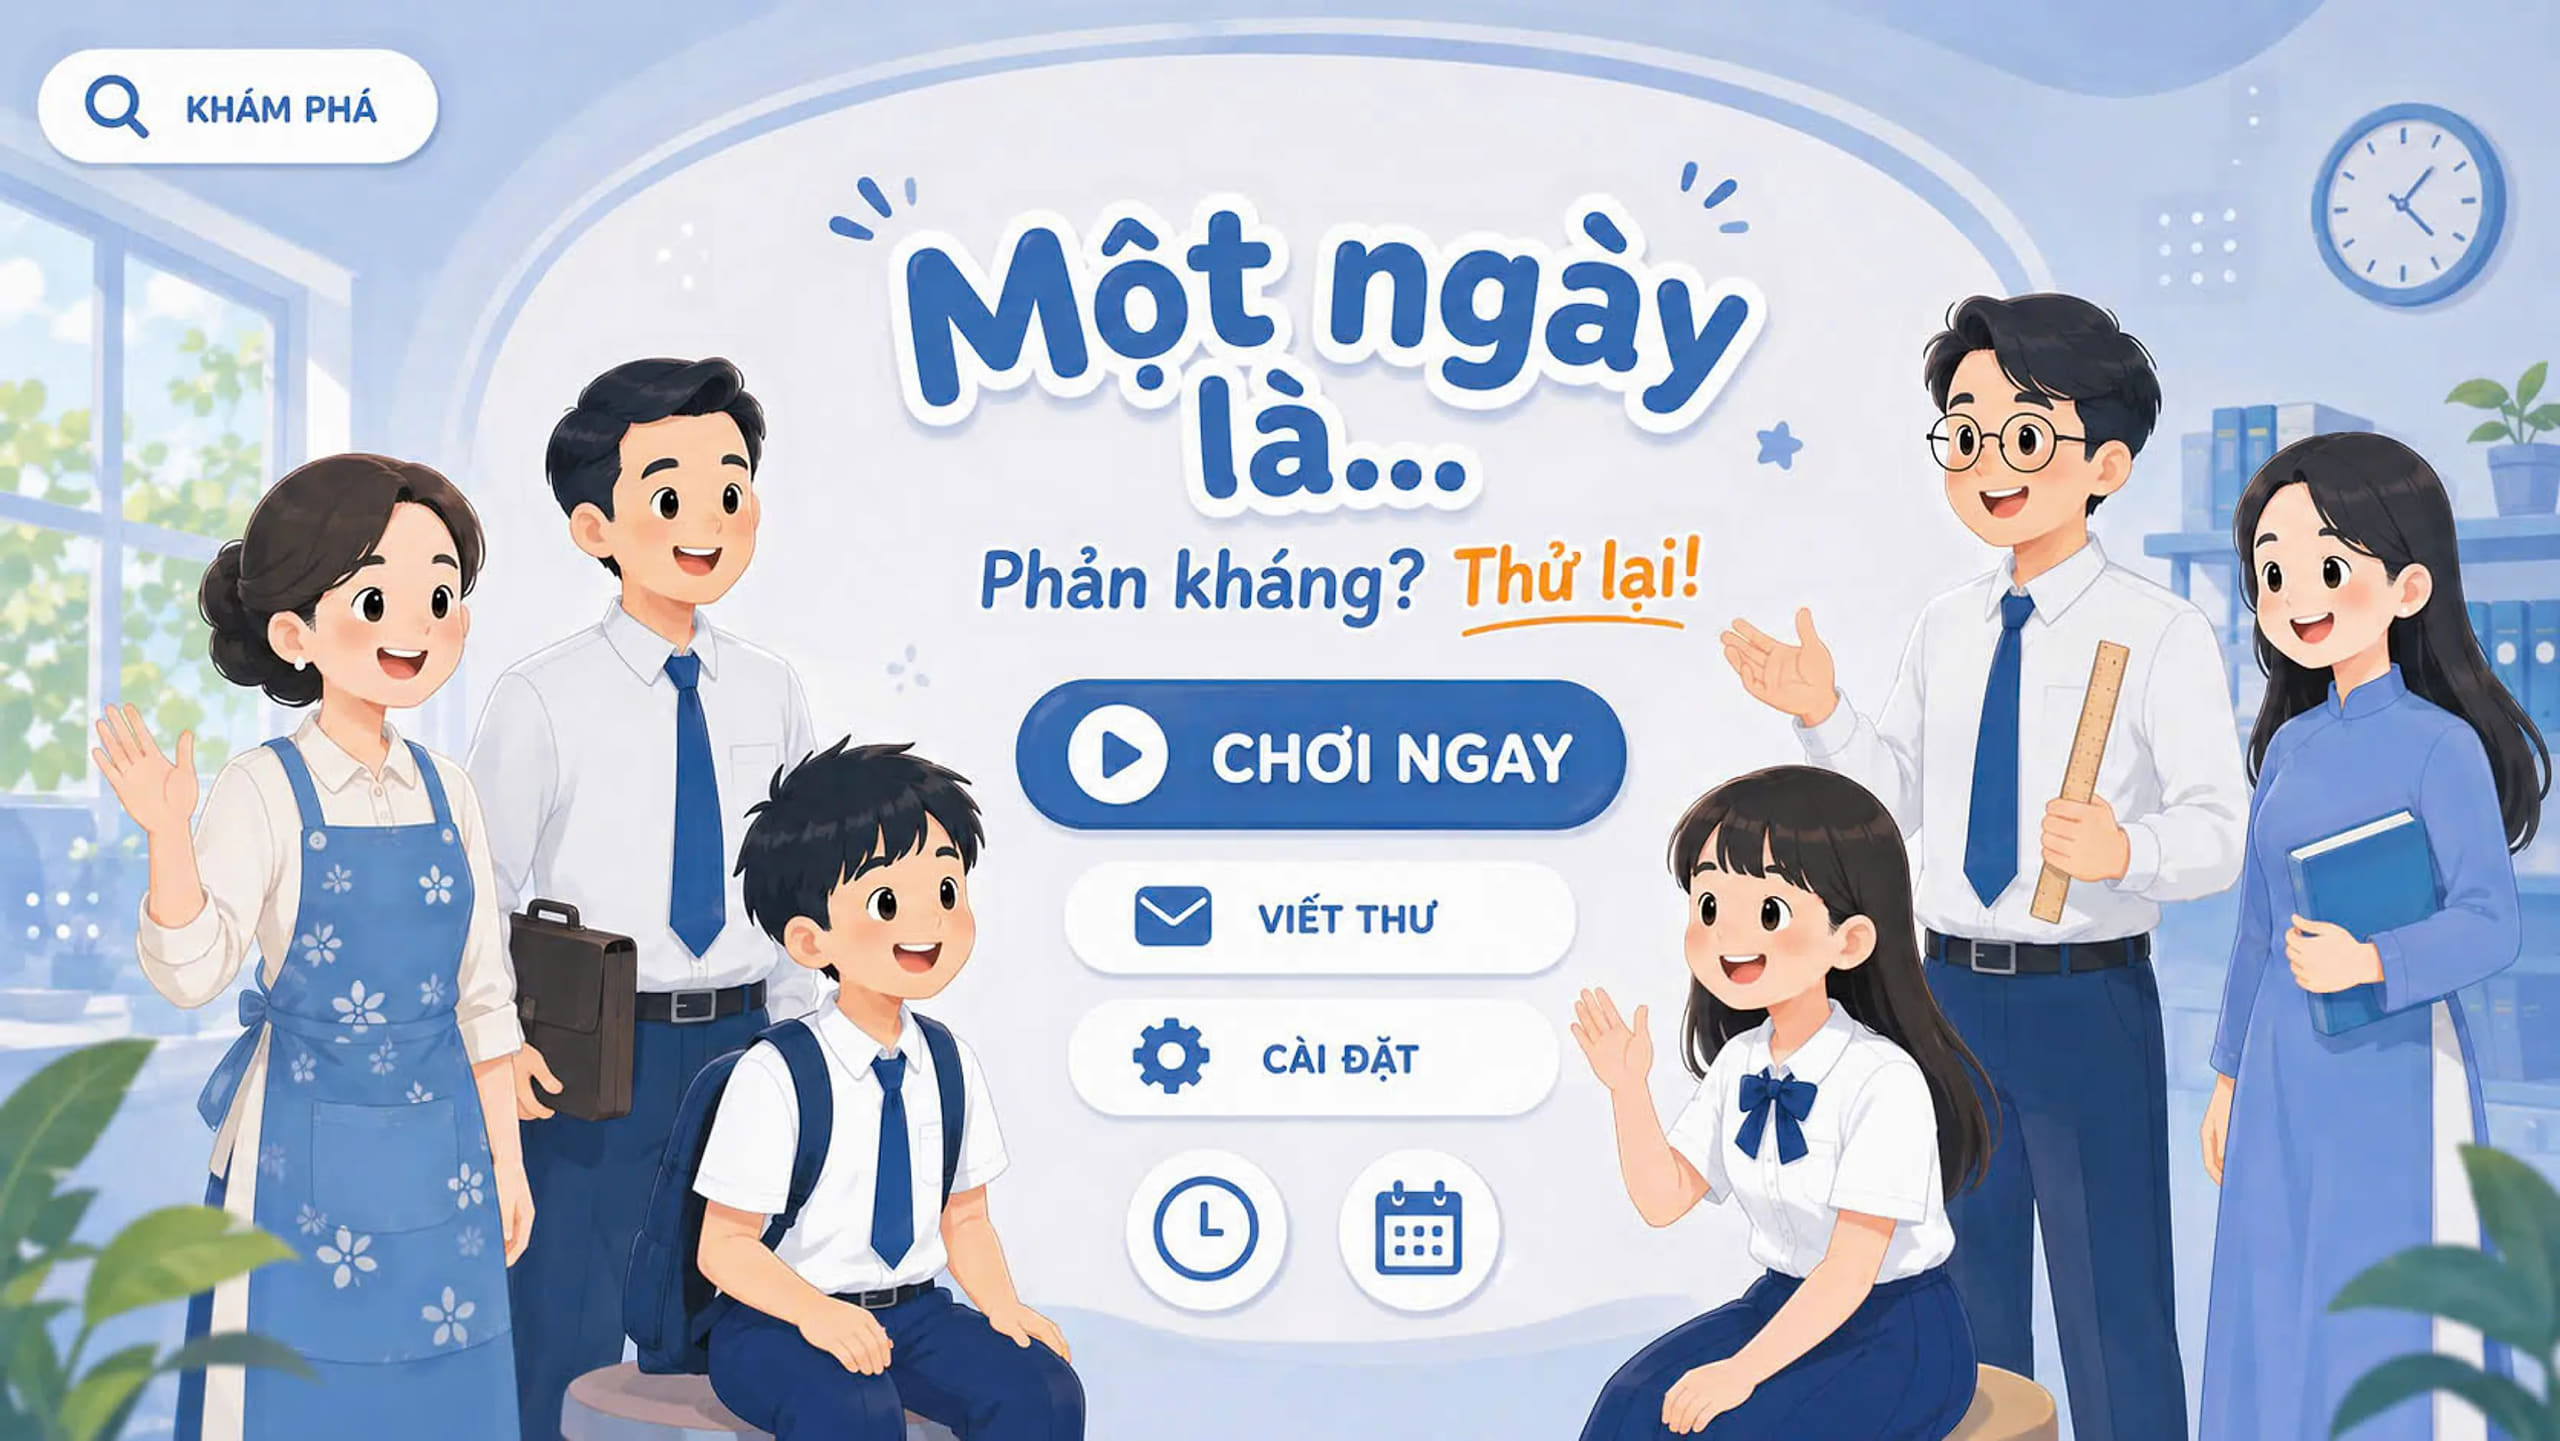
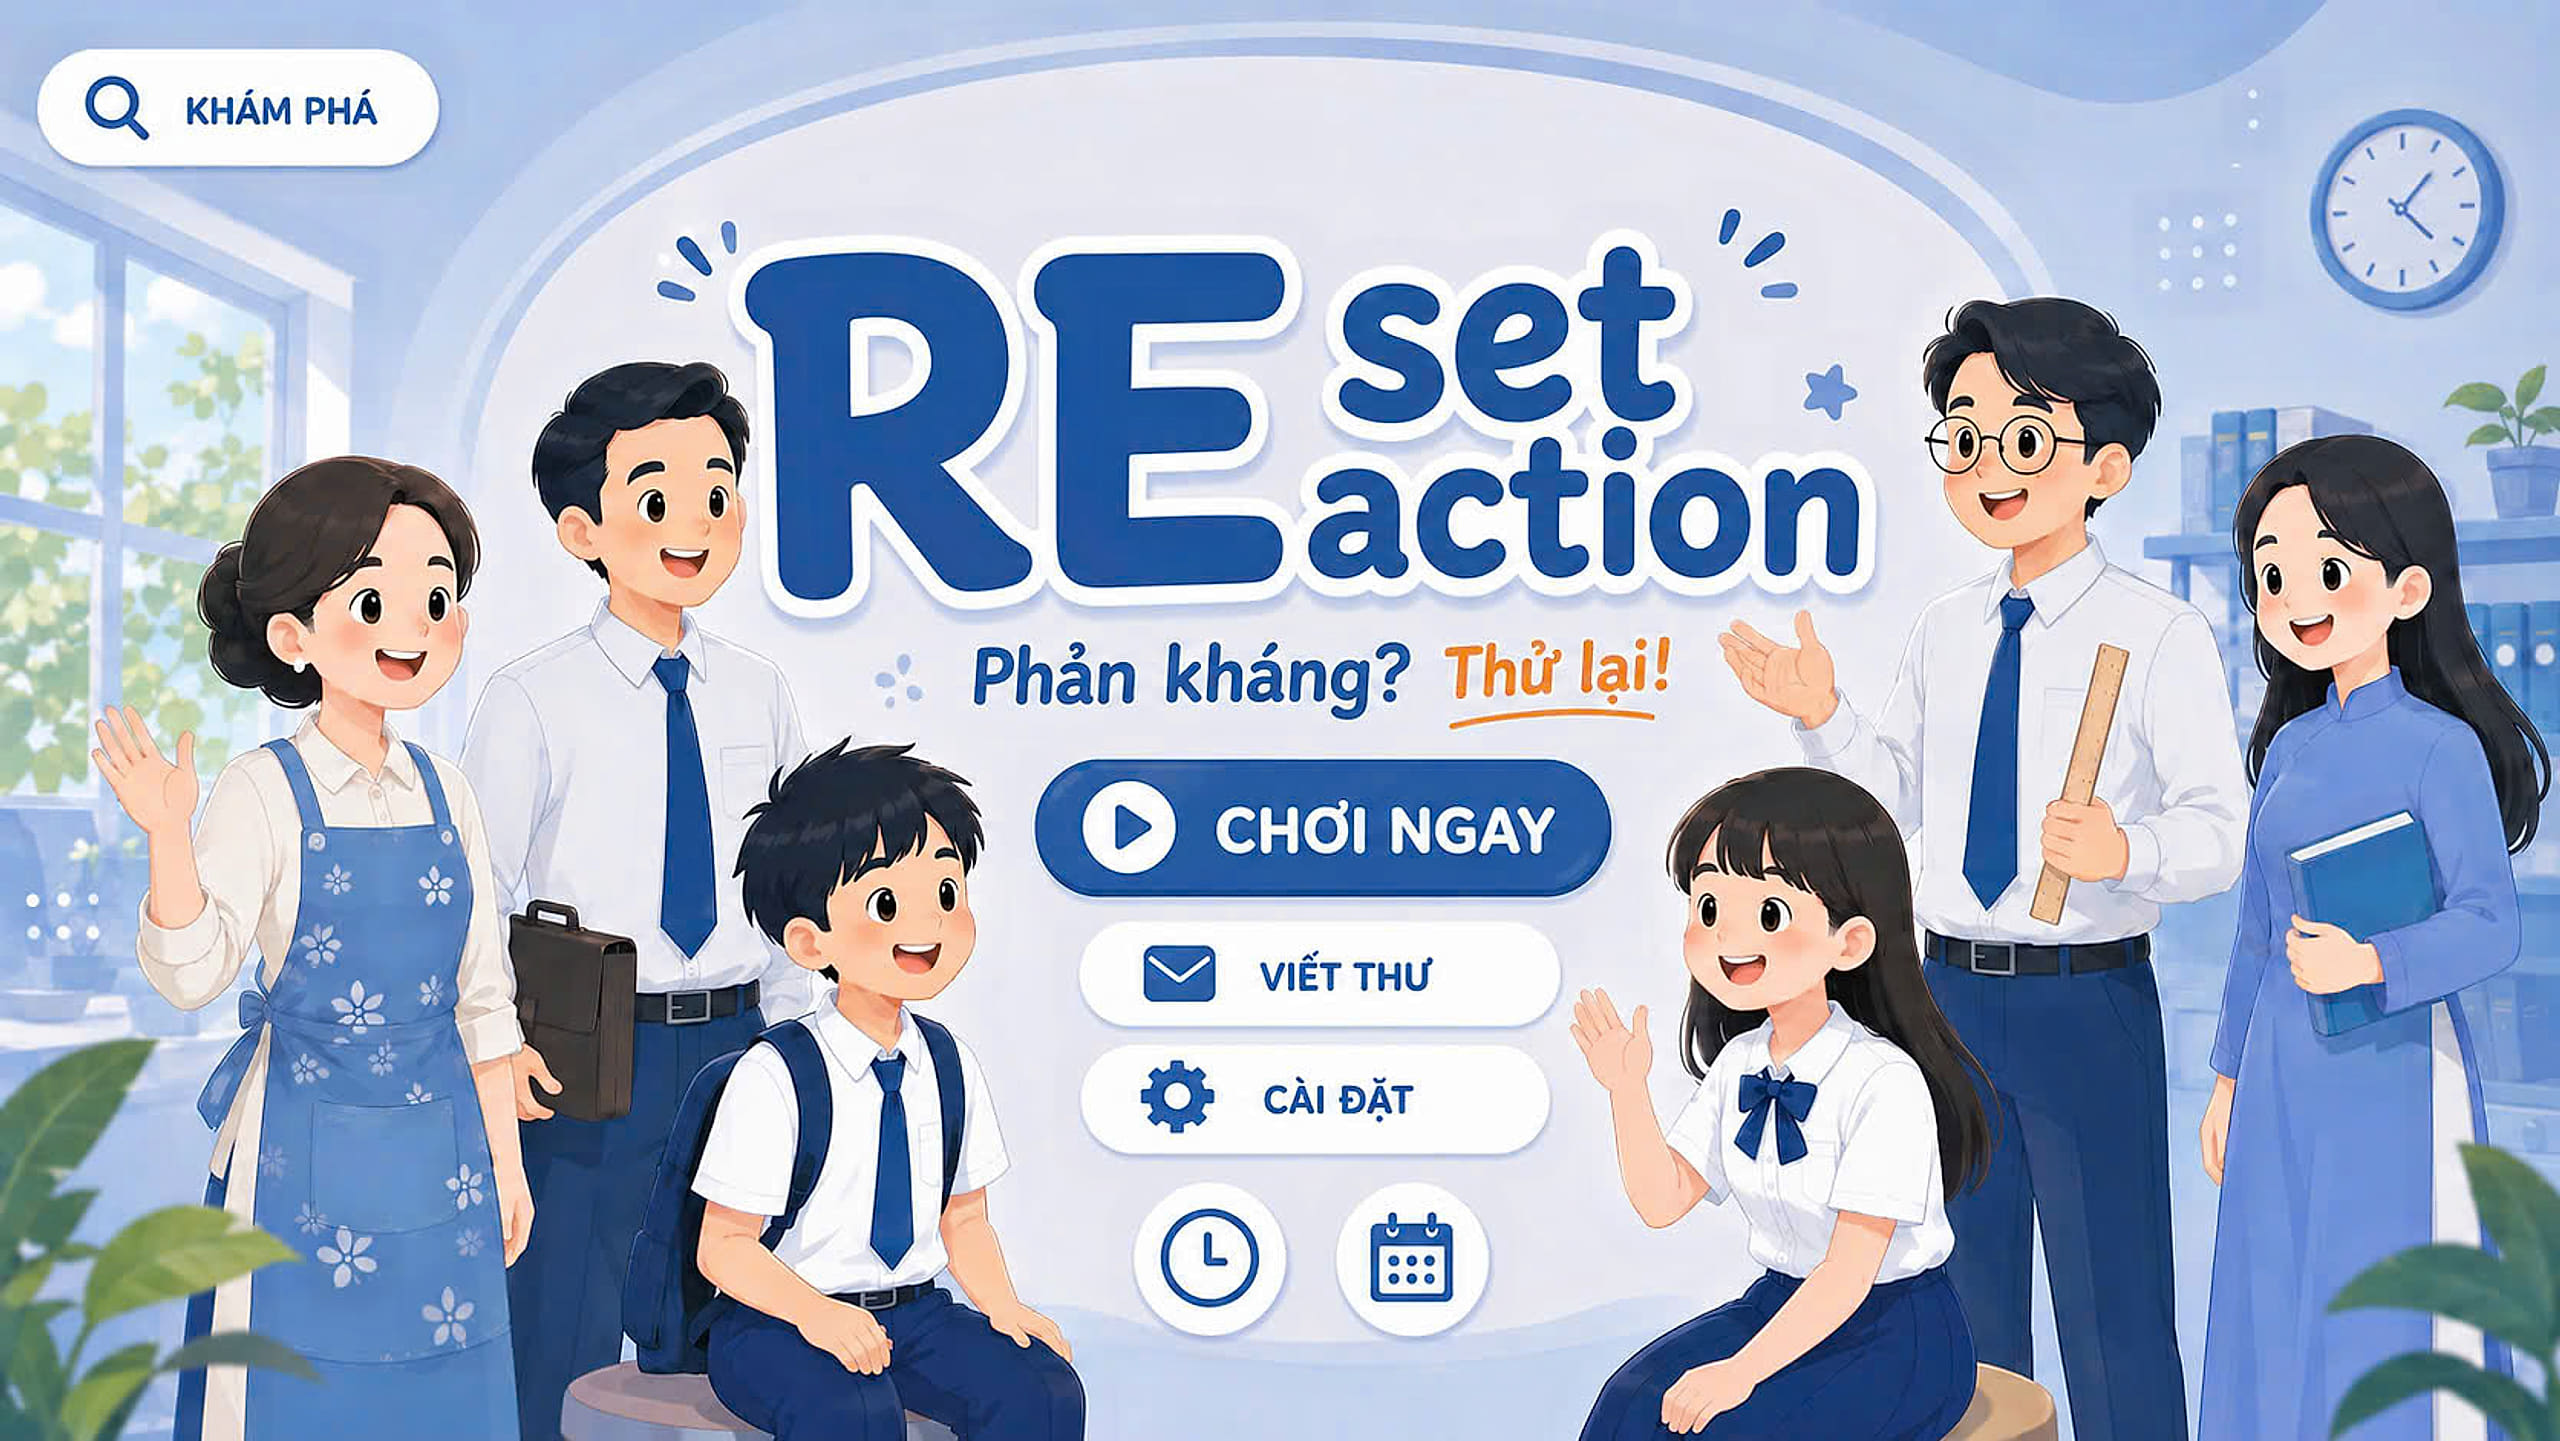
Put the Reset Reaction cover on the front
The new cover art the user drew, at 2560px. Every button on it sits somewhere new, so the
six invisible hit-areas were re-measured from the artwork itself — the play button's blue
fill, the white pills, the two round buttons — then drawn back over the cover to check, and
finally clicked through in the running game: each one opens the screen its label promises.

diff --git a/src/screens/CoverScreen.tsx b/src/screens/CoverScreen.tsx
@@ -21,58 +21,59 @@ export function CoverScreen() {
   const { dispatch } = useGame();
   const playRef = useRef<HTMLButtonElement>(null);
 
-  // hotspot boxes were located by sampling the actual pixel art (the original 1672x941
-  // cover, since the shipped cover.jpg is upscaled; they are percentages, so they still line up)
-  // for the button-fill colors, not eyeballed — see chat history.
+  // Hotspot boxes come from the artwork itself — the play button's blue fill, the white
+  // pills, the two round buttons — never from eyeballing, and each one is checked by drawing
+  // it back over the cover. They are percentages of the 1672x941 drawing, so they line up on
+  // the upscaled cover.jpg at any width. Re-measure them whenever the cover art changes.
   const hotspots: Hotspot[] = [
     {
       label: "Khám phá",
-      top: 3.19,
-      left: 1.79,
-      width: 15.19,
-      height: 8.29,
+      top: 3.4,
+      left: 1.44,
+      width: 15.31,
+      height: 7.66,
       onClick: () => dispatch({ type: "GO_TO", screen: "explore" }),
     },
     {
       label: "Chơi ngay",
-      top: 47.29,
-      left: 41.09,
-      width: 20.75,
-      height: 9.99,
+      top: 52.77,
+      left: 40.43,
+      width: 22.25,
+      height: 9.36,
       // goes through the profile screen first, which offers "chơi tiếp" when a saved
       // run exists instead of silently restarting the week
       onClick: () => dispatch({ type: "GO_TO", screen: "profile" }),
     },
     {
       label: "Viết thư",
-      top: 59.72,
-      left: 42.58,
-      width: 18.0,
-      height: 7.65,
+      top: 63.83,
+      left: 42.11,
+      width: 18.66,
+      height: 6.81,
       onClick: () => dispatch({ type: "GO_TO", screen: "letterWrite" }),
     },
     {
       label: "Cài đặt",
-      top: 69.08,
-      left: 42.7,
-      width: 17.16,
-      height: 8.18,
+      top: 72.6,
+      left: 42.11,
+      width: 18.66,
+      height: 6.81,
       onClick: () => dispatch({ type: "GO_TO", screen: "settings" }),
     },
     {
       label: "Thành tích",
-      top: 79.81,
-      left: 44.02,
-      width: 6.16,
-      height: 10.84,
+      top: 82.13,
+      left: 44.26,
+      width: 5.74,
+      height: 10.21,
       onClick: () => dispatch({ type: "GO_TO", screen: "achievements" }),
     },
     {
       label: "Lịch trình",
-      top: 79.81,
-      left: 52.33,
-      width: 6.1,
-      height: 10.84,
+      top: 82.13,
+      left: 52.15,
+      width: 5.74,
+      height: 10.21,
       onClick: () => dispatch({ type: "GO_TO", screen: "history" }),
     },
   ];
